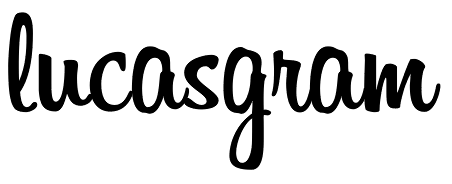
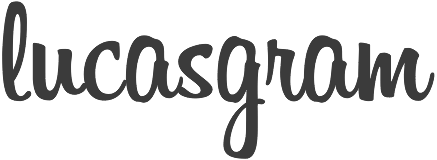
Added top menu.

Changed region(s): [[0.0, 0.0, 1.0, 1.0]]

diff --git a/less/custom.less b/less/custom.less
@@ -6,50 +6,77 @@ body {
 .header {
     border-bottom: 1px solid lighten(@gray-light, 40%);
     background: white;
-    padding: 20px;
+    padding: 20px 0px 10px 0px;
     margin-bottom: 60px;
+    @icon-color: lighten(@gray-light, 10%);
+        
+    .logo {
+        img {
+            padding-top: 5px;
+            width: 110px;
+        }
+    }
+    .search {  
+        float: none;
+        margin: 0 auto;
+        .glyphicon {
+            color: lighten(@gray-light, 20%);
+        }
+  
+    }
+    .menu {
+        ul {
+            padding-top: 3px;
+            li {
+                list-style: none;
+                display: inline;
+                margin: 10px;
+                a {
+                    display: inline-block;
+                    padding: 2px 10px 2px 10px;
+                }
+            }
+        }
+        .glyphicon {
+            font-size: 20px;
+            color: white;
+            text-shadow: -1px 0 @icon-color, 0 1px @icon-color, 1px 0 @icon-color, 0 -1px @icon-color;
+        }
+    }
 }
 
-
- 
 .post {
     border: 1px solid lighten(@gray-light, 40%);
     background: white;
     border-radius: 2px;
     padding-bottom: 15px;
     padding-top: 15px;
-    
     img.profile-thumb {
         height: 40px;
         margin-right: 15px;
     }
-    
     .text-grey {
-        color:lighten(@gray-light, 10%);
+        color: lighten(@gray-light, 10%);
     }
     textarea:focus,
     input:focus {
         outline: none;
     }
-    
     header {
         .profile-thumb {
             float: left;
         }
         margin-bottom: 15px;
     }
-       
     ul {
-        padding-left:0;
+        padding-left: 0;
         li {
             list-style: none;
             margin-left: 0;
             padding-bottom: 6px;
         }
-        
         .hashtag {
             color: @link-color;
-            
         }
     }
     a {
@@ -57,7 +84,7 @@ body {
         color: darken(@link-color, 20%);
     }
     .heart {
-        padding-top:8px;
+        padding-top: 8px;
     }
     .no-border {
         display: block;
@@ -72,7 +99,7 @@ body {
         border: none;
         border-radius: @input-border-radius; // Note: This has no effect on <select>s in some browsers, due to the limited stylability of <select>s in CSS.
         border: none;
-       // border: 1px solid black;
+        // border: 1px solid black;
         *:focus {
             outline: none;
         }
@@ -85,8 +112,6 @@ body {
         margin: 15px 0;
     }
 }
-
-
 
 article {
     margin-bottom: 60px;

diff --git a/index.html b/index.html
@@ -22,25 +22,32 @@
 <body>
     <header class="header">
         <div class="container">
-            <div class="col-md-2">
+            <div class="col-md-2 logo">
                 <img src="imgs/lucasgram.png" class="img-responsive" alt="lucasgram" />
             </div>
 
-            <div class="col-md-7">
+            <div class="col-md-7 ">
 
-                <form class="form-inline" role="form">
-                    <div class="form-group  has-feedback ">
-                        <label class="control-label" for="inputSuccess4"></label>
-                        <input type="text" class="form-control" id="inputSuccess4" placeholder="Search...">
-                        <span class="glyphicon glyphicon glyphicon-search form-control-feedback"></span>
+               
+                    <div class="search col-md-5">
+                        <div class="form-group  has-feedback ">
+                            
+                            <input type="text" class="form-control" id="inputSuccess4" placeholder="Search...">
+                            <span class="glyphicon glyphicon glyphicon-search form-control-feedback"></span>
+                                
+                        </div>
                     </div>
-                </form>
+                
 
             </div>
 
 
-            <div class="col-md-3">
-                Menu
+            <div class="col-md-3 menu">
+                <ul>
+                    <li> <a href="#"><span class="glyphicon glyphicon-cloud-upload" aria-hidden="true"></span></a> </li>
+                    <li> <a href="#"><span class="glyphicon glyphicon-heart" aria-hidden="true"></span> </a></li>
+                    <li> <a href="#"><span class="glyphicon glyphicon-user" aria-hidden="true"></span> </a></li>
+                </ul>
             </div>
 
         </div>
@@ -96,7 +103,7 @@
                 </section>
             </div>
         </article>
-        
+
         <article class="post col-md-7 col-md-offset-2 ">
             <header class="post-header row">
                 <div class="col-sm-11 ">
@@ -146,7 +153,7 @@
                 </section>
             </div>
         </article>
-        
+
         <article class="post col-md-7 col-md-offset-2 ">
             <header class="post-header row">
                 <div class="col-sm-11 ">

diff --git a/css/custom.css b/css/custom.css
@@ -6728,8 +6728,36 @@ body {
 .header {
   border-bottom: 1px solid #dddddd;
   background: white;
-  padding: 20px;
+  padding: 20px 0px 10px 0px;
   margin-bottom: 60px;
+}
+.header .logo img {
+  padding-top: 5px;
+  width: 110px;
+}
+.header .search {
+  float: none;
+  margin: 0 auto;
+}
+.header .search .glyphicon {
+  color: #aaaaaa;
+}
+.header .menu ul {
+  padding-top: 3px;
+}
+.header .menu ul li {
+  list-style: none;
+  display: inline;
+  margin: 10px;
+}
+.header .menu ul li a {
+  display: inline-block;
+  padding: 2px 10px 2px 10px;
+}
+.header .menu .glyphicon {
+  font-size: 20px;
+  color: white;
+  text-shadow: -1px 0 #919191, 0 1px #919191, 1px 0 #919191, 0 -1px #919191;
 }
 .post {
   border: 1px solid #dddddd;
